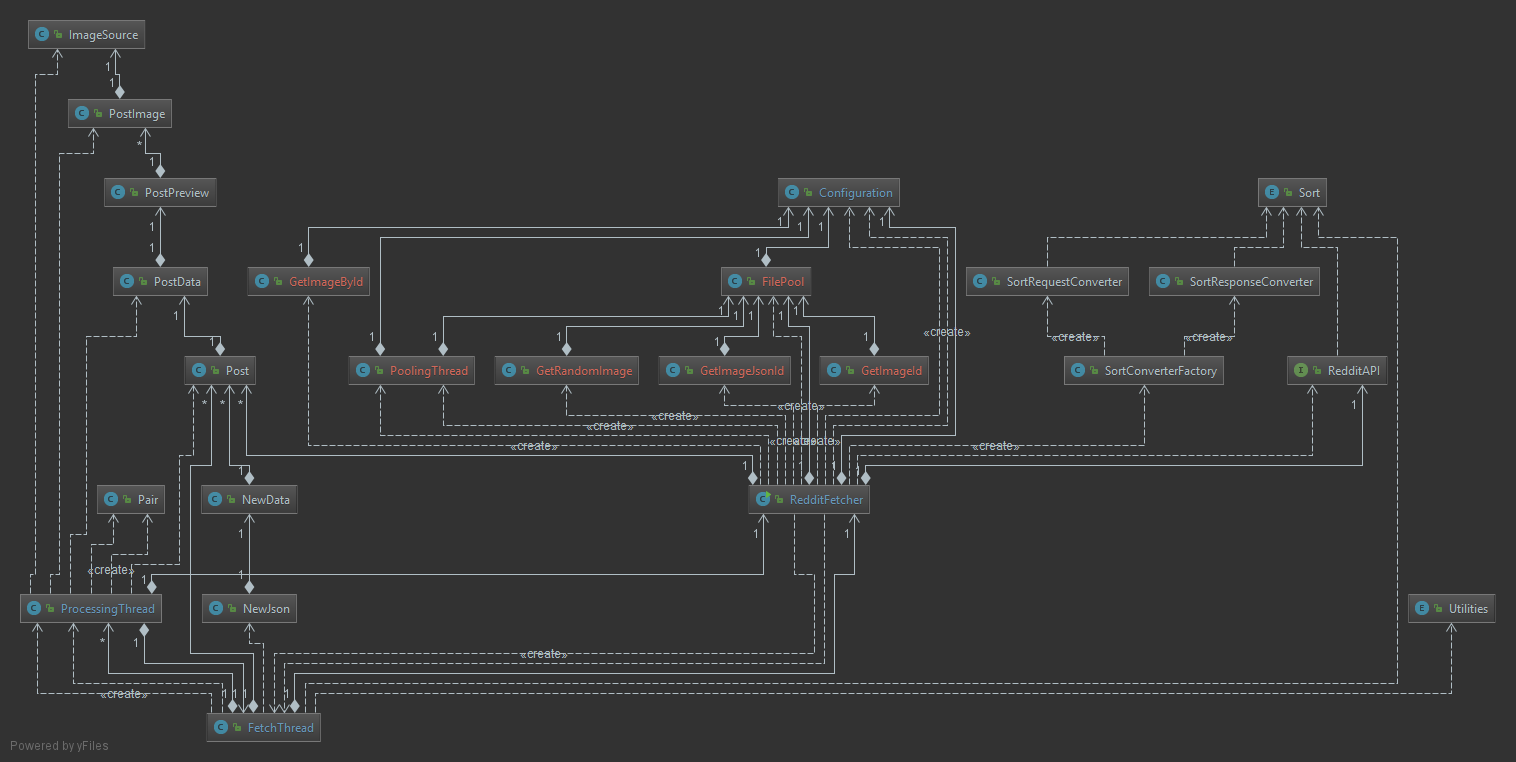
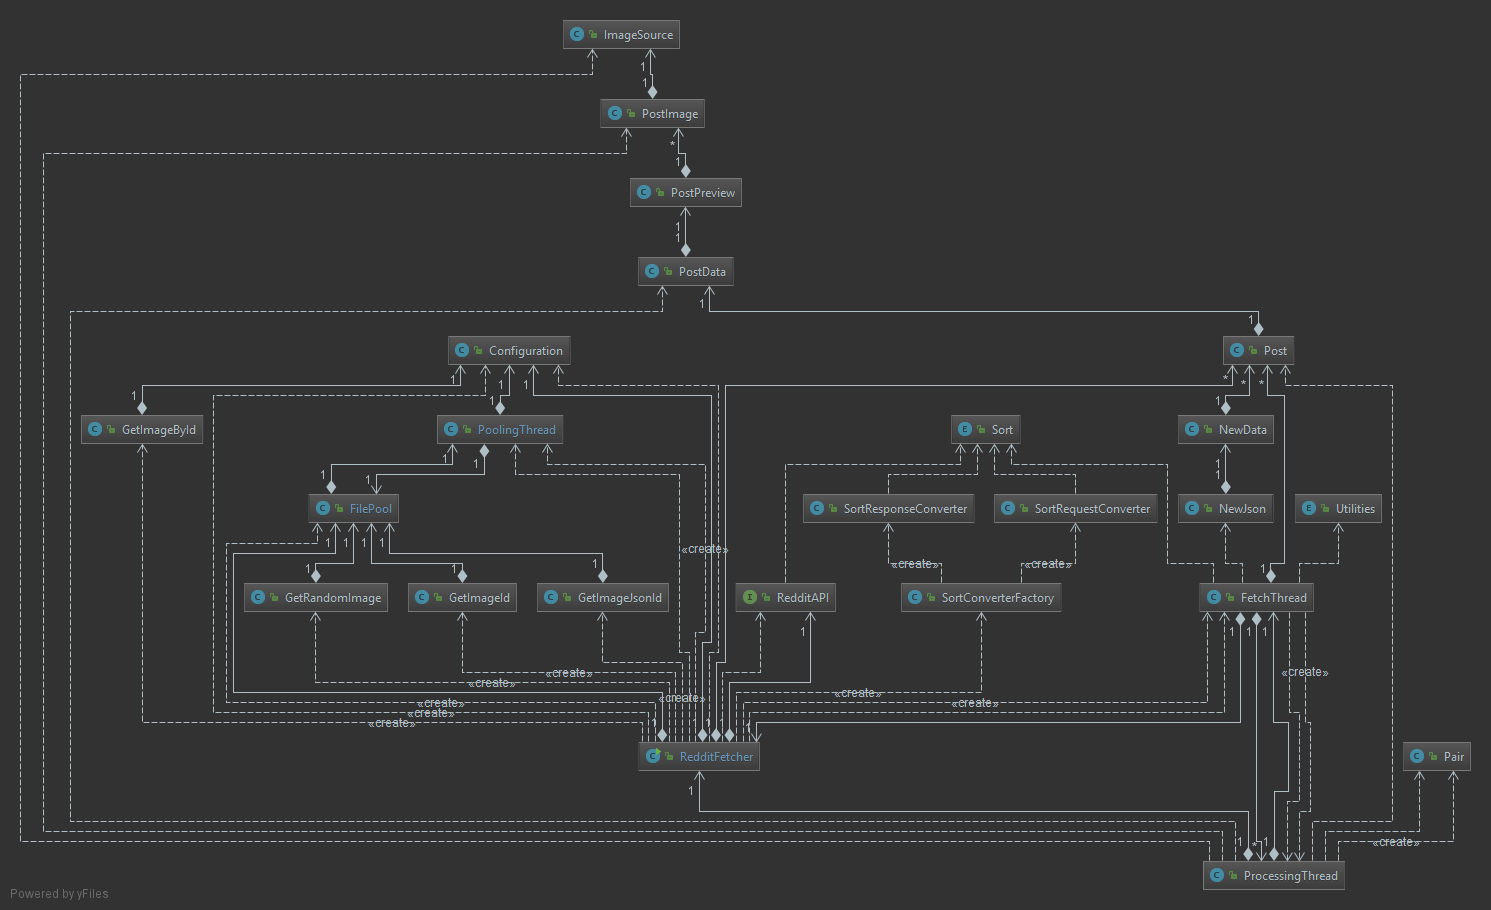
Do pooling

diff --git a/src/main/java/com/proximyst/birbfetcher/reddit/threading/PoolingThread.java b/src/main/java/com/proximyst/birbfetcher/reddit/threading/PoolingThread.java
@@ -2,14 +2,44 @@ package com.proximyst.birbfetcher.reddit.threading;
 
 import com.proximyst.birbfetcher.reddit.application.Configuration;
 import com.proximyst.birbfetcher.reddit.application.FilePool;
+import lombok.Getter;
 import lombok.RequiredArgsConstructor;
 
+import java.io.File;
+import java.util.Queue;
+import java.util.concurrent.LinkedBlockingQueue;
+import java.util.concurrent.ThreadLocalRandom;
+import java.util.concurrent.TimeUnit;
+
+import static com.proximyst.birbfetcher.reddit.Utilities.println;
+
 @RequiredArgsConstructor
-public class PoolingThread extends Thread {
+public class PoolingThread
+			extends Thread {
+	private static final int capacity = 128;
+
 	private final Configuration config;
 	private final FilePool pool;
+	@Getter private final Queue<File> fileQueue = new LinkedBlockingQueue<>(capacity);
 
 	@Override
 	public void run() {
+		int size = fileQueue.size();
+		if (size < capacity) {
+			File directory = new File(config.getBirbDirectory());
+			File[] children = directory.listFiles();
+			if (children != null) {
+				for (int i = 0; i < (capacity - size); i++) {
+					fileQueue.offer(children[ThreadLocalRandom.current().nextInt(children.length)]);
+				}
+			}
+		}
+		try {
+			sleep(TimeUnit.SECONDS.toMillis(2));
+		} catch (InterruptedException e) {
+			println("Interrupted! Stopping thread...");
+			return;
+		}
+		run();
 	}
 }

diff --git a/src/main/java/com/proximyst/birbfetcher/reddit/RedditFetcher.java b/src/main/java/com/proximyst/birbfetcher/reddit/RedditFetcher.java
@@ -70,14 +70,14 @@ public class RedditFetcher {
 			configuration.setBirbDirectory('.' + File.separatorChar + "birbs");
 			configuration.setPort(4500);
 		}
-		println("Instantiating file pool.");
-		filePool = new FilePool(configuration);
 		println("Instantiating pooling thread.");
 		PoolingThread poolingThread = new PoolingThread(configuration, filePool);
 		poolingThread.setName("Pooler");
 		poolingThread.setDaemon(false);
 		println("Starting pooling thread:", poolingThread.getName(), '(' + poolingThread.getId() + ')');
 		poolingThread.start();
+		println("Instantiating file pool.");
+		filePool = new FilePool(poolingThread);
 
 		FetchThread fetcherThread = new FetchThread(this);
 		fetcherThread.setName("Fetcher");

diff --git a/src/main/java/com/proximyst/birbfetcher/reddit/application/FilePool.java b/src/main/java/com/proximyst/birbfetcher/reddit/application/FilePool.java
@@ -1,17 +1,19 @@
 package com.proximyst.birbfetcher.reddit.application;
 
+import com.proximyst.birbfetcher.reddit.threading.PoolingThread;
 import lombok.RequiredArgsConstructor;
 
 import java.io.File;
-import java.util.Queue;
-import java.util.concurrent.LinkedBlockingQueue;
 
 @RequiredArgsConstructor
 public class FilePool {
-	private final Queue<String> internalQueue = new LinkedBlockingQueue<>();
-	private final Configuration config;
+	private final PoolingThread poolingThread;
 
 	public File poll() {
-		return null;
+		File file;
+		do {
+			file = poolingThread.getFileQueue().poll();
+		} while (file == null);
+		return file;
 	}
 }
